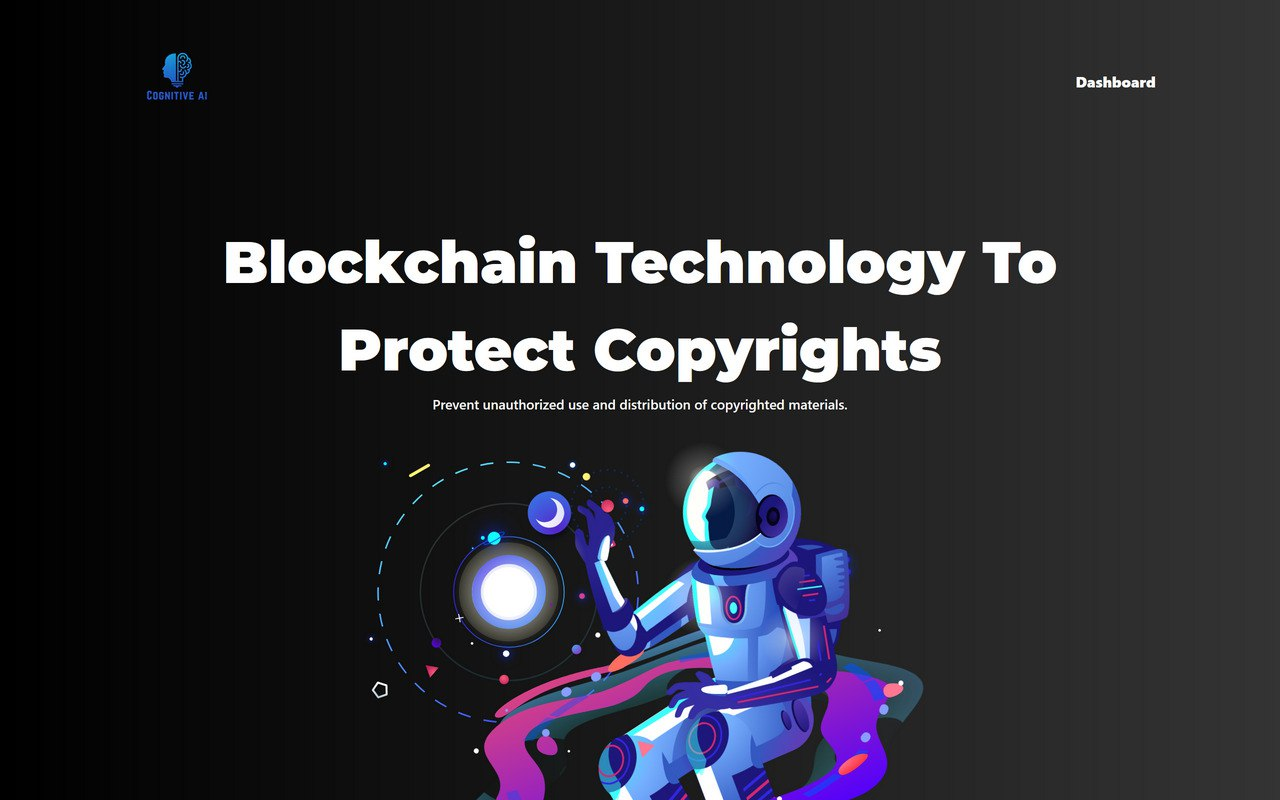
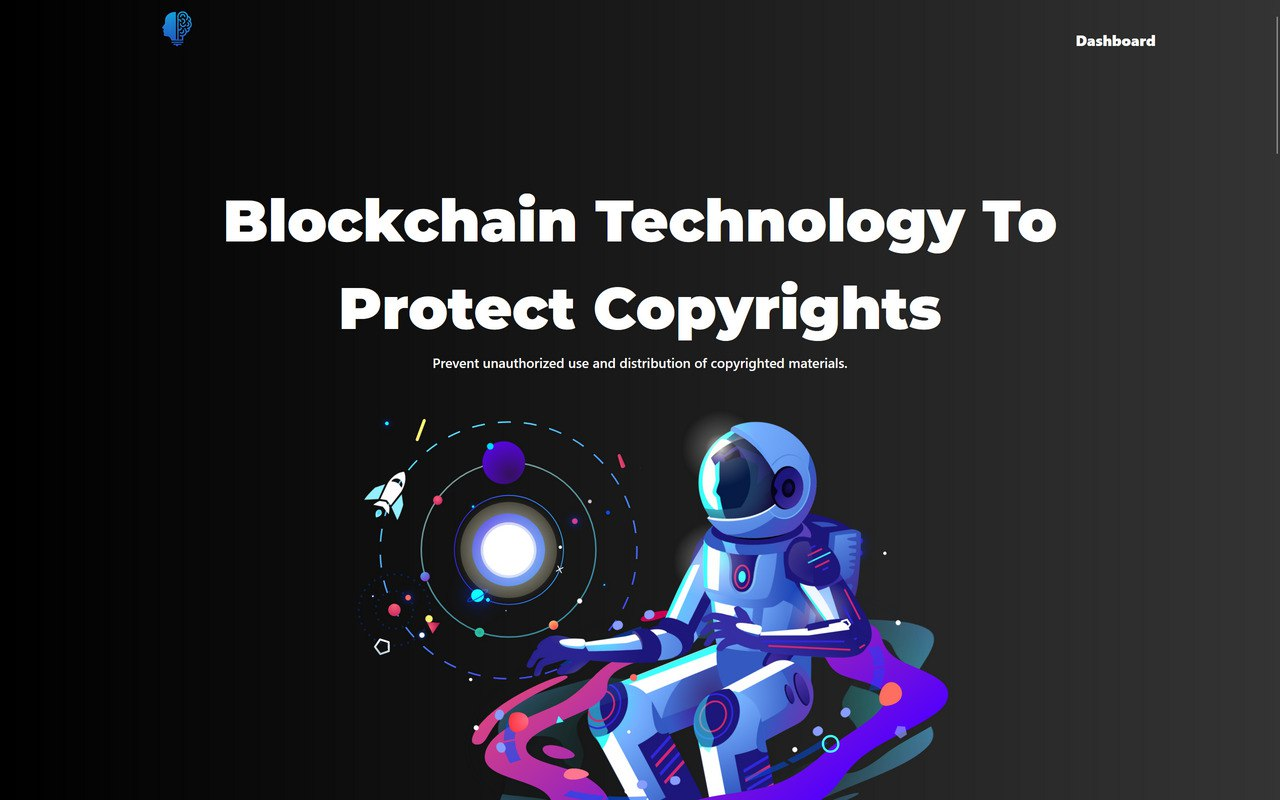
updated github landing page screenshot

diff --git a/README.md b/README.md
@@ -1,4 +1,5 @@
-# Cognitive AI for Blockchain Copyright Protection
+# Cognition for Blockchain Copyright Protection
+# ![]()
 ## Description
 Cognitive AI is a machine learning tool designed for blockchain technology to protect copyrights. The motivation behind this project is to prevent unauthorized use and distribution of copyrighted materials in the digital world. By leveraging blockchain's immutable and decentralized nature, Cognitive AI aims to enforce copyright ownership and usage rights more effectively.
 
